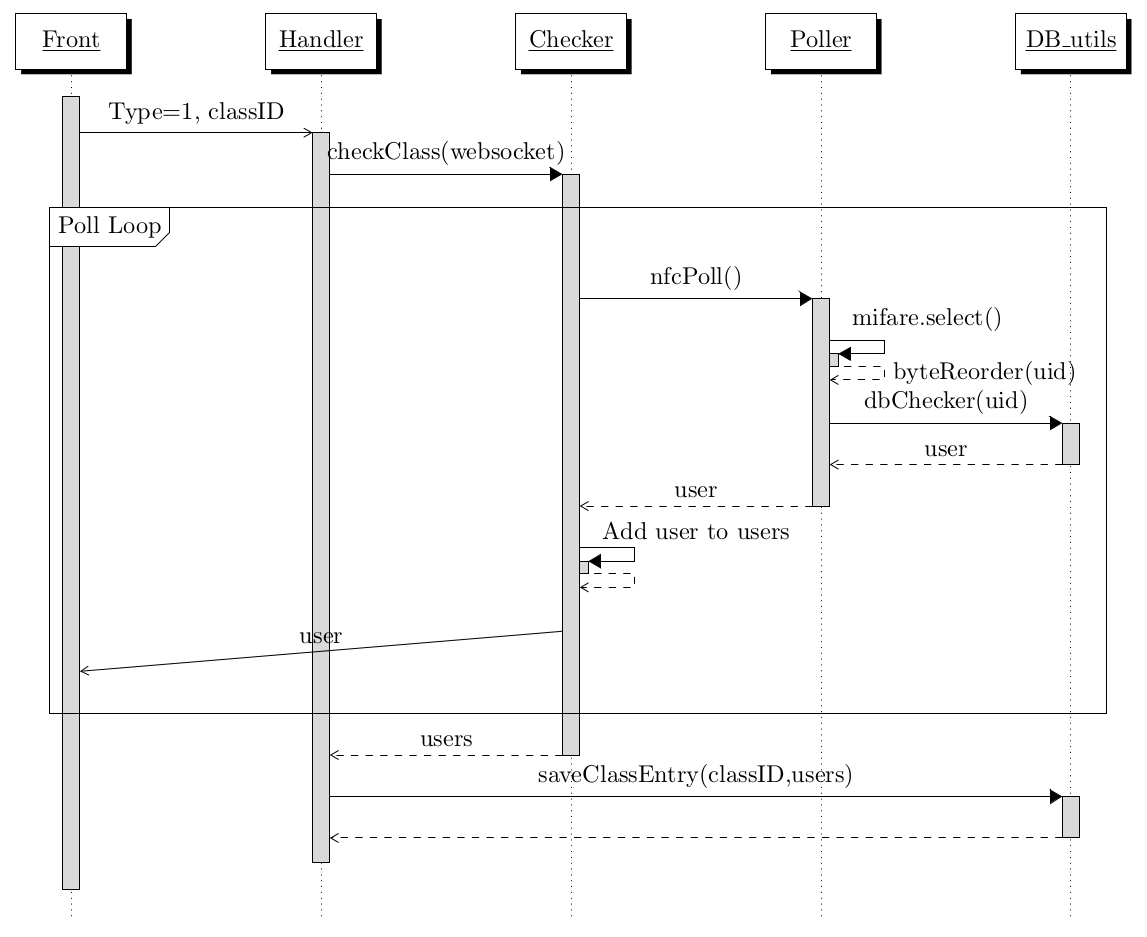
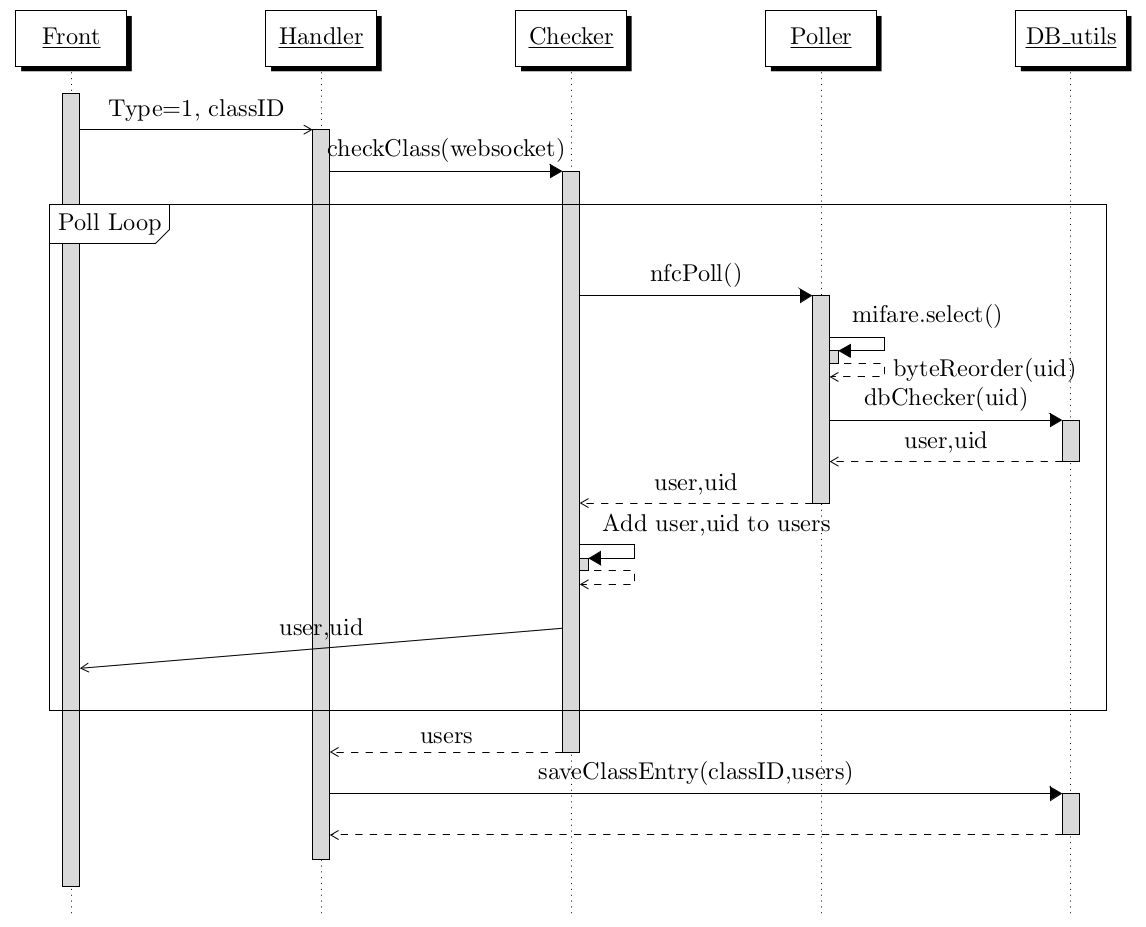
:books: Refreshed the sequence diagram that had errors on them

diff --git a/presentation/assets/seq_nfc.tex b/presentation/assets/seq_nfc.tex
@@ -25,17 +25,39 @@
         \newinst[1]{p}{Poller}
         \newinst[2]{d}{DB\_utils}
 
-        \begin{call}{f}{Type = 0}{h}{user}
-        \begin{call}{h}{checkOnce()}{c}{user}
-            \begin{call}{c}{nfcPoll()}{p}{user}
-                \begin{call}{p}{mifare.select()}{p}{byteReorder(uid)}
+        \begin{call}{f}{Type = 0}{h}{user,uid}
+        \begin{call}{h}{checkOnce()}{c}{user,uid}
+            \begin{call}{c}{nfcPoll()}{p}{user,uid}
+                \begin{call}{p}{mifare.select()}{p}{byteReorder(user,uid)}
                     
                 \end{call}{p}{MiFare.select()}{p}
-                \begin{call}{p}{dbChecker(uid)}{d}{user}
+                \begin{call}{p}{dbChecker(uid)}{d}{user,uid}
+                    \begin{sdblock}{alt}{[User Found in DB]}
+                        \begin{call}{d}{return user=user}{d}{}
+                        \end{call}
+                    
+                        \stepcounter{seqlevel} %Vertical empty space between `calls`
+                    
+                        \begin{call}{d}{return user=None}{d}{}
+                        \end{call}
+                    \end{sdblock}
+                    \path (nw)--coordinate (aux) (se); 
+                    \draw[dashed] (nw|-aux)--(aux-|se);
                 \end{call}
             \end{call}
         \end{call}
-      \end{call}{f}
+      \end{call}
+      \begin{sdblock}{alt}{[user==None]}
+        \begin{call}{f}{add uid to user}{f}{}
+        \end{call}
+    
+        \stepcounter{seqlevel} %Vertical empty space between `calls`
+    
+        \begin{call}{f}{Error: uid already used}{f}{}
+        \end{call}
+    \end{sdblock}
+    \path (nw)--coordinate (aux) (se); 
+    \draw[dashed] (nw|-aux)--(aux-|se);
             
 
     \end{sequencediagram}
@@ -55,18 +77,18 @@
         \begin{messcall}{f}{Type=1, classID}{h}
             \begin{call}{h}{checkClass(websocket)}{c}{users}
                 \begin{sdblock}{Poll Loop}{}
-                    \begin{call}{c}{nfcPoll()}{p}{user}
+                    \begin{call}{c}{nfcPoll()}{p}{user,uid}
                         \begin{call}{p}{mifare.select()}{p}{byteReorder(uid)}
                         \end{call}{p}{MiFare.select()}{p}
                         
-                        \begin{call}{p}{dbChecker(uid)}{d}{user}
+                        \begin{call}{p}{dbChecker(uid)}{d}{user,uid}
                         \end{call}
                     \end{call}
 
-                    \begin{call}{c}{Add user to users}{c}{}
+                    \begin{call}{c}{Add user,uid to users}{c}{}
                     \end{call}
 
-                    \mess[1]{c}{user}{f}
+                    \mess[1]{c}{user,uid}{f}
                 \end{sdblock}
             \end{call}
             \begin{call}{h}{saveClassEntry(classID,users)}{d}{}
@@ -90,18 +112,18 @@
         \begin{messcall}{f}{Type=2, classID}{h}
             \begin{call}{h}{checkClass(websocket)}{c}{users}
                 \begin{sdblock}{Poll Loop}{}
-                    \begin{call}{c}{nfcPoll()}{p}{user}
+                    \begin{call}{c}{nfcPoll()}{p}{user,uid}
                         \begin{call}{p}{mifare.select()}{p}{byteReorder(uid)}
                         \end{call}{p}{MiFare.select()}{p}
                         
-                        \begin{call}{p}{dbChecker(uid)}{d}{user}
+                        \begin{call}{p}{dbChecker(uid)}{d}{user,uid}
                         \end{call}
                     \end{call}
 
-                    \begin{call}{c}{Add user to users}{c}{}
+                    \begin{call}{c}{Add user,uid to users}{c}{}
                     \end{call}
 
-                    \mess[1]{c}{user}{f}
+                    \mess[1]{c}{user,uid}{f}
                 \end{sdblock}
             \end{call}
             \begin{call}{h}{saveClassExit(classID,users)}{d}{}

diff --git a/presentation/end-year/synthese.tex b/presentation/end-year/synthese.tex
@@ -912,20 +912,4 @@ En 2009, un article formalise les différentes attaques. \cite{attack}
 \end{frame}
 
 
-\begin{frame}{À venir...}
-
-  \begin{itemize}
-      \item Cycle de Développement itératif
-      \item Vérification par NFC
-      \item Vérification sur la durée : phase rapide du Swiss-Knife par un autre vecteur que le Wi-Fi (Ultrason ?) afin d'assurer :
-      \begin{itemize}
-          \item La présence effective des utilisateurs dans la salle
-          \item Une compensation de la vitesse trop rapide du Wi-Fi et des collisions des paquets
-      \end{itemize}
-
-  \end{itemize}
-
-\end{frame}
-
-
 \end{document}
